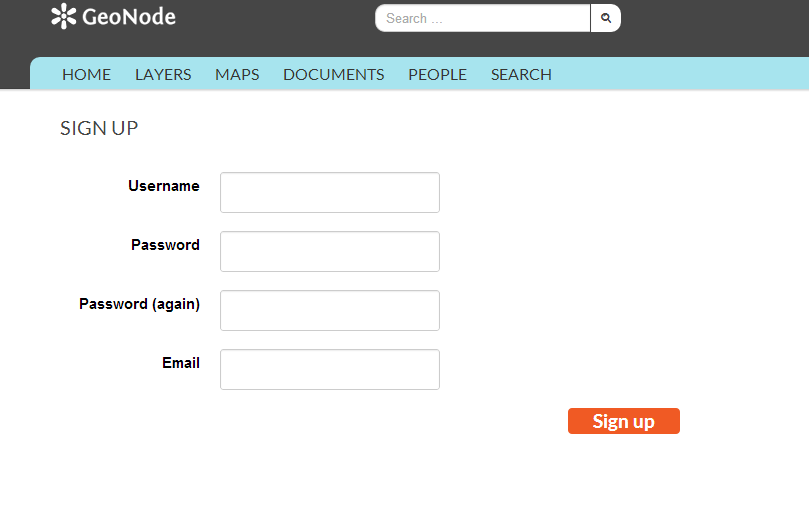
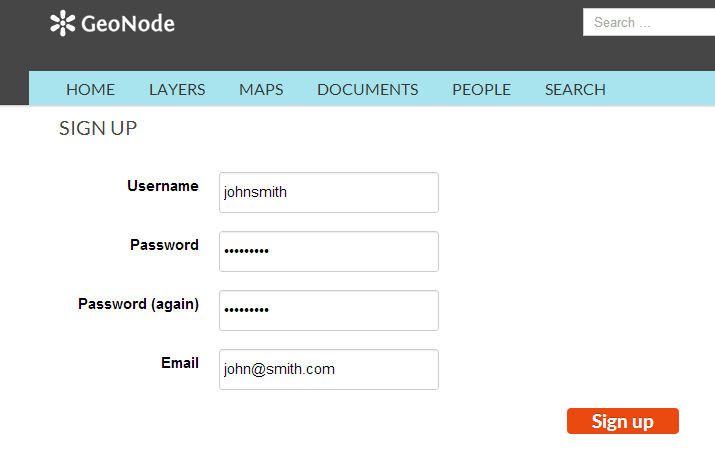
Added accounts section with real screenshots

diff --git a/user/source/accounts/profile.rst b/user/source/accounts/profile.rst
@@ -3,39 +3,55 @@
 Managing your profile
 =====================
 
+.. todo:: This theme is messed up.  When the navigation page titles are too long, the top area becomes twice as high, obscuring the actual page title.  See this page.
+
 Your profile contains personal information.
 
 #. Click on your user name in the top right of the screen. A drop-down list will show. Click on :guilabel:`Profile` to enter the Profile settings page.
 
    .. figure:: img/profilelink.png
-      :width: 50%
-      :align: center
 
       *Link to your profile*
 
-#. The next page shows your profile. Click the :guilabel:`Edit profile information` link.
+#. The next page shows your profile, which is currently empty.
 
    .. figure:: img/profilepage.png
-      :width: 50%
-      :align: center
 
       *Profile page*
 
-#. On this page, your personal information can be set, including your avatar. Enter some details in the :guilabel:`Profile` box as well as your city and country info. When finished, click :guilabel:`Update profile`.
+#. Click the :guilabel:`Edit profile information` link.
+
+   .. figure:: img/editprofilelink.png
+
+      *Link to edit your profile*
+
+#. On this page, your personal information can be set, including your avatar. Enter some details in the :guilabel:`Profile` box as well as your city and country info.
 
    .. figure:: img/profileedit.png
-      :width: 50%
-      :align: center
 
       *Editing your profile*
 
-#. You will be returned to the main profile page. Now click :guilabel:`Account settings`. On this page you can change your email address, time zone, and language.
+#. When finished, click :guilabel:`Update profile`.
 
-   .. figure:: img/account.png
-      :width: 50%
-      :align: center
+   .. figure:: img/updateprofilelink.png
+
+      *Link to save your profile updates*
+
+#. You will be returned to the main profile page. Now click :guilabel:`Account settings`.
+
+   .. figure:: img/accountsettingslink.png
+
+      *Link to edit your account settings*
+
+#. On this page you can change your email address, time zone, and language. Your email should be populated already, but set the timezone to your current location.
+
+   .. todo:: Email address was on the profile page as well. What's the difference?
+
+   .. figure:: img/accountpage.png
 
       *Editing your account*
 
-#. Select your time zone and preferred language, and click :guilabel:`Save`.
+#. When finished, click :guilabel:`Save`.
+
+   .. todo:: FYI, if you change the email addess, the Gravitar doesn't change along with it.
 

diff --git a/user/source/accounts/users.rst b/user/source/accounts/users.rst
@@ -3,47 +3,45 @@
 Viewing other user accounts
 ===========================
 
-Now that your account is created, you can view other accounts on the system. Note on the main profile page there are options for following (and blocking) other users.
+Now that your account is created, you can view other accounts on the system. Note that on the main profile page there are options for following (and blocking) other users.
 
-#. To see information about other users on the system, click the :guilabel:`People` link on the top toolbar.
+   .. figure:: img/profilepage.png
 
-#. You will see a list of users registered on this system. Click on the user name for a particular user. 
+      *Profile page*
 
-   .. figure:: img/people.png
-      :width: 50%
-      :align: center
+#. To see information about other users on the system, click the :guilabel:`People` link on the top toolbar. You will see a list of users registered on this system.
+
+   .. figure:: img/peoplepage.png
 
       *List of users*
 
-#. You will see the layers owned by this user. You can also click :guilabel:`Activities` to see the activity feed.
+#.  Click on the user name for a particular user. You will see the layers owned by this user.
 
    .. figure:: img/adminlayers.png
-      :width: 50%
-      :align: center
 
       *List of layers owned by a user*
 
+#. You can also click :guilabel:`Activities` to see the activity feed.
+
    .. figure:: img/adminactivities.png
-      :width: 50%
-      :align: center
 
       *List of users*
 
-#. If you are interested in keeping track of what this user does, click the :guilabel:`Follow` button. A confirmation page will display. Click :guilabel:`Confirm`.
+   .. todo:: There is no navigational aides on the Activites page, so no way to move back without using browser Back button.
+
+#. If you are interested in keeping track of what this user does, go back to the previous page and click the :guilabel:`Follow` button.
+
+#. A confirmation page will display. Click :guilabel:`Confirm`.
 
    .. figure:: img/followconfirm.png
-      :width: 50%
-      :align: center
 
       *Confirming following a user*
 
 #. You will now be following this user, and your profile page will note this.
 
    .. figure:: img/followconfirm.png
-      :width: 50%
-      :align: center
 
       *Success following a user*
 
-.. todo:: How will the user get notified?
+   .. todo:: On user's profile page, only shows the avatar of the people you're following, with no names.
 

diff --git a/user/source/accounts/registration.rst b/user/source/accounts/registration.rst
@@ -1,37 +1,30 @@
 .. _accounts.registration:
 
-Registering for a new account
-=============================
+Creating a new account
+======================
 
-Before you can do much on a GeoNode instance, you need to create a new account on the system. This will allow you to create your own layers and maps.
+Before you can save or edit any layers on a GeoNode instance, you need to create an account.
 
-.. todo:: Not true?
+#. From any page in the web interface, you will see a :guilabel:`Sign in` link. Click that link, and in the dialog that displays, click the :guilabel:`Register now` link.
 
-#. Click the :guilabel:`Register` link at the top right of the page.
+   .. figure:: img/signin.png
 
-   .. figure:: img/welcome.png
-      :width: 50%
-      :align: center
-
-      *Welcome screen*
+      *Sign in screen*
 
 #. On the next page, fill out the form. Enter a user name and password in the fields. Also, enter your email address for verification.
 
    .. figure:: img/signup.png
-      :width: 50%
-      :align: center
 
       *Registering for a new account*
 
-#. You will be returned to the home page. An email will be sent to your address confirming that you have signed up. While you are now logged in, you will need to confirm your account. Navigate to the link that was sent in the email.
+#. You will be returned to the welcome page. An email will be sent confirming that you have signed up. While you are now logged in, you will need to confirm your account. Navigate to the link that was sent in the email.
 
    .. todo:: Why confirm if you're already in?
 
    .. figure:: img/confirm.png
-      :width: 50%
-      :align: center
 
       *Confirming your email address*
 
-#. Click :guilabel:`Sign up` to confirm. You will be returned to the homepage.
+#. Click :guilabel:`Confirm`. You will be returned to the homepage.
 
+.. todo:: What's the point of confirmation?

diff --git a/user/source/intro/whatis.rst b/user/source/intro/whatis.rst
@@ -8,4 +8,3 @@ This section will explain what GeoNode is and how it is useful.
 .. todo:: This info should be written somewhere already. Repurpose?
 
 .. todo:: Topics: What is GeoNode? Why is it important? How is it different/better?
- 
